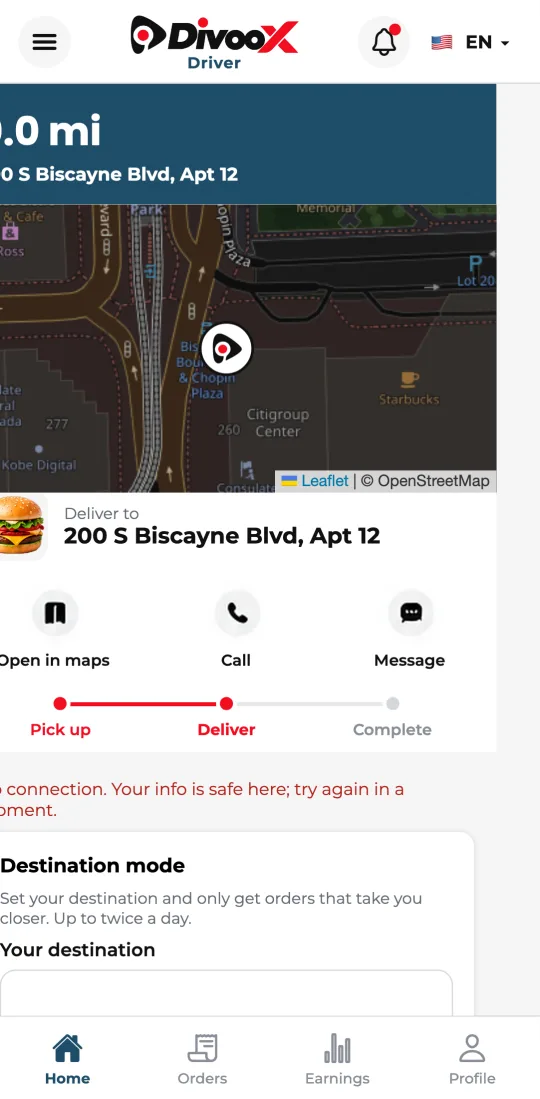
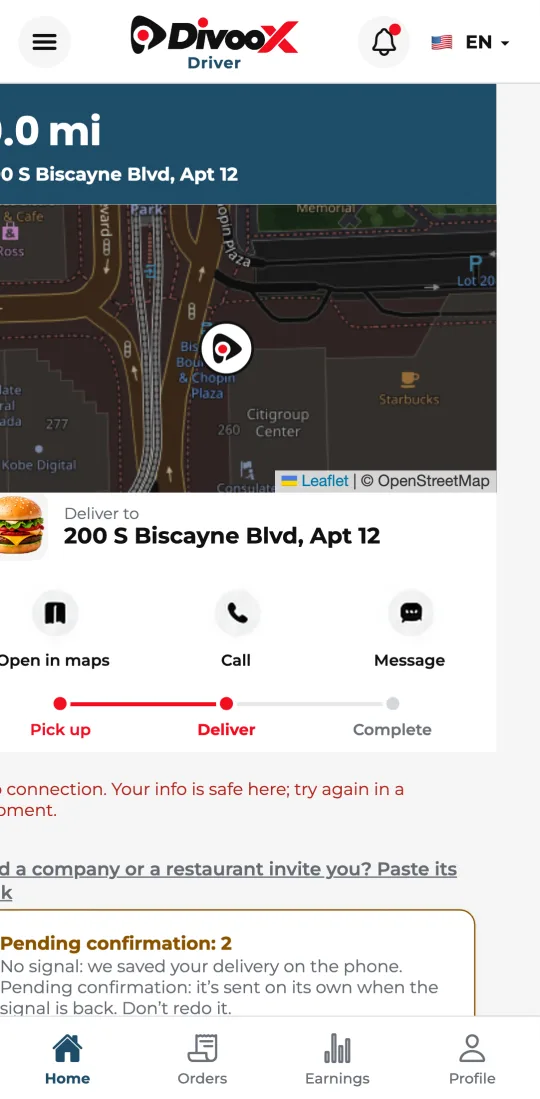
docs(entrega): guía «Completar la entrega: foto y deslizar» en español e inglés con capturas reales, candados, ficha REA y comparación; textos del deslizador que caben (C-DESLIZAR-ENTREGA) — todos los países

Changed region(s): [[0.0, 0.7734, 0.8593, 0.99], [0.8593, 0.8353, 0.8889, 0.99]]

diff --git a/apps/panel/src/sitio/docs/guias.ts b/apps/panel/src/sitio/docs/guias.ts
@@ -3015,6 +3015,50 @@ const es: SeccionDocs[] = [
         ],
       },
       {
+        id: 'complete-delivery',
+        titulo: 'Completar la entrega: foto y deslizar',
+        resumen:
+          'En la puerta del cliente tomas la foto de la entrega y deslizas «Desliza para completar». Así se cierra el pedido, como en las apps de reparto más grandes.',
+        explicacion: [
+          'Cuando llegas a la dirección y el GPS confirma que estás en la puerta, aparece «Tomar foto de la entrega».',
+          'Deja la comida y toma la foto de lado: que se vean la comida y la entrada de la casa, nunca la cara de nadie.',
+          'La foto se sube sola. Verás una miniatura con «Foto de la entrega lista». Si no te gustó, toca «Tomar otra foto» y reemplaza la anterior.',
+          'Con la foto lista, la barra de abajo se pone verde: desliza la bola de izquierda a derecha hasta el final. El pedido queda entregado y el cliente recibe la foto.',
+          'Deslizar, en vez de tocar, evita cerrar un pedido sin querer con el celular en el bolsillo. Si usas el lector de pantalla del celular, basta con activar la barra.',
+          'Si no tienes señal en la puerta, la foto y el cierre se guardan en tu celular y se mandan solos cuando vuelve la señal. Mientras tanto ves «Pendiente de confirmar».',
+          'Si el cliente pidió «en mano» y lo recibe, toca «Entregado en mano»: no hace falta foto. Con PIN o con productos para mayores de 21, siempre se entrega en mano.',
+          'Mientras tienes un pedido en curso no aparece «Modo destino»: lo eliges entre pedidos.',
+        ],
+        capturas: [
+          {
+            src: '/docs/recorrido-driver-entrega-foto-es.webp',
+            alt: 'App del repartidor en la puerta: botón verde «Tomar foto de la entrega» y debajo la barra gris «Primero toma la foto».',
+            pie: 'En la puerta: primero la foto. La barra espera en gris.',
+          },
+          {
+            src: '/docs/recorrido-driver-entrega-lista-es.webp',
+            alt: 'Miniatura de la foto con «Foto de la entrega lista», el enlace «Tomar otra foto» y la barra verde «Desliza para completar».',
+            pie: 'Con la foto lista, la barra se pone verde: desliza para completar.',
+          },
+          {
+            src: '/docs/recorrido-repartidor-sin-senal-es.webp',
+            alt: 'La tarjeta «Pendiente de confirmar: 2» con la foto y el cierre guardados en el celular, esperando señal.',
+            pie: 'Sin señal: la foto y el cierre se mandan solos cuando vuelve.',
+          },
+        ],
+        preguntas: [
+          '¿Cómo completo una entrega en la puerta?',
+          '¿Por qué tengo que deslizar en vez de tocar?',
+          '¿Puedo volver a tomar la foto de la entrega?',
+          '¿Qué pasa si no tengo señal al entregar?',
+        ],
+        pasos: [
+          'En la puerta, toca «Tomar foto de la entrega» y toma la foto de lado, sin caras.',
+          'Revisa la miniatura. Si no sirve, toca «Tomar otra foto».',
+          'Desliza la barra verde «Desliza para completar» hasta el final.',
+        ],
+      },
+      {
         id: 'cant-continue',
         titulo: 'Si no puedes seguir con un pedido o el cliente no aparece',
         resumen:
@@ -3830,7 +3874,7 @@ const es: SeccionDocs[] = [
           'Así nadie se lleva una bolsa sin dejar rastro y nadie marca «entregado» desde otro lugar.',
           'En el restaurante, el repartidor toma la foto de la bolsa cerrada, con el sello o el ticket a la vista. La app solo la acepta si está en el restaurante.',
           'El repartidor también escanea el código QR de la pantalla del restaurante, que confirma que es el pedido correcto; con el código y la foto, el pedido sale solo. Si no escaneó, el restaurante ve la foto en su pantalla, revisa que sea su pedido y toca «Confirmar: se lo entregué al repartidor». Recién ahí el pedido sale en camino: ya se sabe quién lo tiene, el repartidor ve la ruta y el cliente ve la foto de su pedido cerrado con la hora estimada.',
-          'En camino, el botón verde «Cómo llegar» lo guía. Al llegar a la puerta (a unos 80 metros de la dirección, confirmado por el GPS con dos lecturas precisas), ese botón se quita y aparece «Tomar foto de la entrega». Desde lejos no se puede entregar. Si pediste «en mano», el repartidor toca «Entregado en mano» y no hace falta foto.',
+          'En camino, el botón verde «Cómo llegar» lo guía. Al llegar a la puerta (a unos 80 metros de la dirección, confirmado por el GPS con dos lecturas precisas), ese botón se quita y aparece «Tomar foto de la entrega». Con la foto lista, el repartidor desliza «Desliza para completar». Desde lejos no se puede entregar. Si pediste «en mano», el repartidor toca «Entregado en mano» y no hace falta foto.',
           'La foto de la entrega no muestra caras: la comida se deja en la puerta o en las manos del cliente, y la foto se toma de lado, con las manos, la comida y la entrada de la casa.',
           'Las fotos solo las ven el cliente, el restaurante y el repartidor de ese pedido, y nuestro equipo de soporte si hay un reclamo.',
           'Al entregar, al cliente también le llega un correo con la foto de la entrega y el enlace para calificar. Ese enlace de la foto es solo de su pedido y deja de funcionar a los 7 días.',
@@ -3869,6 +3913,7 @@ const es: SeccionDocs[] = [
           'Restaurante: mira la foto en tu pantalla y toca «Confirmar: se lo entregué al repartidor».',
           'Repartidor: sigue «Cómo llegar» hasta la puerta del cliente.',
           'Repartidor: en la puerta, toca «Tomar foto de la entrega». Sin caras: de lado, con las manos, la comida y la entrada.',
+          'Repartidor: desliza «Desliza para completar» hasta el final.',
           'Cliente: ve la foto de su pedido cerrado al salir y la de la entrega al llegar.',
         ],
       },
@@ -7985,6 +8030,50 @@ const en: SeccionDocs[] = [
         ],
       },
       {
+        id: 'complete-delivery',
+        titulo: 'Complete the delivery: photo and slide',
+        resumen:
+          'At the customer’s door, take the delivery photo and slide “Slide to complete delivery.” That closes the order, just like the biggest delivery apps.',
+        explicacion: [
+          'When you reach the address and GPS confirms you’re at the door, “Take the delivery photo” appears.',
+          'Leave the food and take the photo from the side: show the food and the entrance, never anyone’s face.',
+          'The photo uploads on its own. You’ll see a thumbnail with “Delivery photo ready.” If you don’t like it, tap “Retake photo” to replace it.',
+          'With the photo ready, the bar below turns green: slide the ball all the way from left to right. The order is delivered and the customer gets the photo.',
+          'Sliding instead of tapping keeps you from closing an order by accident with the phone in your pocket. If you use your phone’s screen reader, just activate the bar.',
+          'If you have no signal at the door, the photo and the completion are saved on your phone and sent on their own when the signal comes back. Meanwhile you see “Pending confirmation.”',
+          'If the customer chose “hand it to me” and takes it, tap “Handed to the customer”: no photo needed. Orders with a PIN or with 21+ items are always handed over in person.',
+          'While you have an order in progress, “Destination mode” is hidden: you set it between orders.',
+        ],
+        capturas: [
+          {
+            src: '/docs/recorrido-driver-entrega-foto-en.webp',
+            alt: 'Driver app at the door: green “Take the delivery photo” button and, below it, the gray bar “Take the photo first.”',
+            pie: 'At the door: photo first. The bar waits in gray.',
+          },
+          {
+            src: '/docs/recorrido-driver-entrega-lista-en.webp',
+            alt: 'Photo thumbnail with “Delivery photo ready,” the “Retake photo” link and the green bar “Slide to complete delivery.”',
+            pie: 'With the photo ready, the bar turns green: slide to complete.',
+          },
+          {
+            src: '/docs/recorrido-repartidor-sin-senal-en.webp',
+            alt: 'The “Pending confirmation: 2” card with the photo and the completion saved on the phone, waiting for signal.',
+            pie: 'No signal: the photo and the completion go out on their own when it returns.',
+          },
+        ],
+        preguntas: [
+          'How do I complete a delivery at the door?',
+          'Why do I have to slide instead of tap?',
+          'Can I retake the delivery photo?',
+          'What if I have no signal when I deliver?',
+        ],
+        pasos: [
+          'At the door, tap “Take the delivery photo” and shoot from the side, no faces.',
+          'Check the thumbnail. If it’s not good, tap “Retake photo.”',
+          'Slide the green “Slide to complete delivery” bar all the way.',
+        ],
+      },
+      {
         id: 'cant-continue',
         titulo: 'If you can’t continue with an order or the customer isn’t there',
         resumen:
@@ -8803,7 +8892,7 @@ const en: SeccionDocs[] = [
           'That way no one walks off with a bag without a trace, and no one marks an order “delivered” from somewhere else.',
           'At the restaurant, the driver takes a photo of the closed bag with the seal or receipt showing. The app only accepts it at the restaurant.',
           'The driver also scans the QR code on the restaurant’s screen, which confirms it’s the right order; with the code and the photo, the order goes out on its own. If they didn’t scan, the restaurant sees the photo on its screen, checks that it’s their order, and taps “Confirm: I handed it to the driver.” Only then does the order go out: everyone knows who has it, the driver sees the route, and the customer sees the photo of their closed order with the estimated time.',
-          'On the way, the green “Directions” button guides the driver. At the door (about 80 meters from the address, confirmed by GPS with two precise readings), that button goes away and “Take the delivery photo” appears. It can’t be delivered from far away. If you chose “hand it to me,” the driver taps “Handed to the customer” and no photo is needed.',
+          'On the way, the green “Directions” button guides the driver. At the door (about 80 meters from the address, confirmed by GPS with two precise readings), that button goes away and “Take the delivery photo” appears. With the photo ready, the driver slides “Slide to complete delivery.” It can’t be delivered from far away. If you chose “hand it to me,” the driver taps “Handed to the customer” and no photo is needed.',
           'The delivery photo shows no faces: the food is left at the door or in the customer’s hands, and the photo is taken from the side, showing the hands, the food, and the home’s entrance.',
           'Only the customer, the restaurant, and the driver of that order can see the photos, plus our support team if there’s a claim.',
           'When the order is delivered, the customer also gets an email with the delivery photo and a link to rate it. That photo link belongs to their order only and stops working after 7 days.',
@@ -8842,6 +8931,7 @@ const en: SeccionDocs[] = [
           'Restaurant: look at the photo on your screen and tap “Confirm: I handed it to the driver.”',
           'Driver: follow “Directions” to the customer’s door.',
           'Driver: at the door, tap “Take the delivery photo.” No faces: from the side, with the hands, the food, and the entrance.',
+          'Driver: slide “Slide to complete delivery” all the way.',
           'Customer: sees the photo of the closed order when it leaves and the delivery photo when it arrives.',
         ],
       },

diff --git a/e2e/recorrido/recorrido.spec.ts b/e2e/recorrido/recorrido.spec.ts
@@ -88,6 +88,7 @@ const PARA_TIENDA = new Map<string, [string, string]>([
   ],
   ['repartidor-en-camino', ['Divoox Driver (repartidor)', '04-en-camino-como-llegar']],
   ['repartidor-llegada', ['Divoox Driver (repartidor)', '05-en-la-puerta-foto-de-la-entrega']],
+  ['driver-entrega-lista', ['Divoox Driver (repartidor)', '05b-foto-lista-desliza-para-completar']],
   ['repartidor-billetera', ['Divoox Driver (repartidor)', '06-billetera']],
   ['repartidor-retiro', ['Divoox Driver (repartidor)', '07-retiro-al-banco']],
   ['restapp-nuevo', ['Divoox Restaurants (restaurante)', '01-pedido-nuevo-y-tiempo-para-aceptar']],
@@ -1080,23 +1081,27 @@ for (const idioma of ['en', 'es'] as const) {
     // 11. Sin señal al entregar: la foto se guarda en el celular, «pendiente de confirmar», y se
     // manda sola cuando vuelve la señal. El pedido NO queda entregado hasta entonces.
     // C-DESLIZAR-ENTREGA (como DoorDash y Uber): la foto no cierra el pedido; se cierra al
-    // deslizar «Desliza para completar la entrega». Sin señal, los dos quedan en la cola, en orden.
+    // deslizar «Desliza para completar». Sin señal, los dos quedan en la cola, en orden.
     const deslizador = rep.getByTestId('deslizar-completar').filter({ visible: true });
     await expect(deslizador).toBeVisible({ timeout: 20_000 });
-    await expect(deslizador).toHaveAttribute('aria-disabled', 'true');
+    await expect(deslizador).toHaveAttribute('aria-label', L.primeroFoto);
+    await deslizador.scrollIntoViewIfNeeded();
+    await foto(rep, 'driver-entrega-foto');
     await repCtx.setOffline(true);
     await tomarFoto(L.fotoEntrega, FOTO_ENTREGA);
     await expect(rep.getByText(`${L.pendientes}: 1`)).toBeVisible({ timeout: 20_000 });
     await expect(rep.getByText(L.fotoLista).filter({ visible: true })).toBeVisible({
       timeout: 20_000,
     });
-    await expect(deslizador).not.toHaveAttribute('aria-disabled', 'true');
+    await expect(deslizador).toHaveAttribute('aria-label', L.deslizar);
     expect(sql(`SELECT estado FROM pedidos WHERE id = '${cobro.pedidoId}'`)[0]?.estado).toBe(
       'en_camino',
     );
     await deslizador.scrollIntoViewIfNeeded();
-    await foto(rep, 'repartidor-foto-lista');
-    // Deslizar la bola de punta a punta, como con el dedo.
+    await foto(rep, 'driver-entrega-lista');
+    // Deslizar la bola de punta a punta, como con el dedo (la captura mueve la página: se vuelve
+    // a enfocar la barra antes de medirla).
+    await deslizador.scrollIntoViewIfNeeded();
     const caja = (await deslizador.boundingBox())!;
     const y = caja.y + caja.height / 2;
     await rep.mouse.move(caja.x + 30, y);

diff --git a/e2e/recorrido/textos.ts b/e2e/recorrido/textos.ts
@@ -79,6 +79,8 @@ export const TEXTOS = {
     comoLlegar: 'Directions',
     fotoEntrega: 'Take the delivery photo',
     fotoLista: 'Delivery photo ready',
+    primeroFoto: 'Take the photo first',
+    deslizar: 'Slide to complete delivery',
     sinGpsAyuda:
       'Tell us what’s going on (tall building, garage, no signal). Support reviews it and authorizes the delivery.',
     pedirExcepcion: 'I can’t confirm my location',
@@ -215,6 +217,8 @@ export const TEXTOS = {
     comoLlegar: 'Cómo llegar',
     fotoEntrega: 'Tomar foto de la entrega',
     fotoLista: 'Foto de la entrega lista',
+    primeroFoto: 'Primero toma la foto',
+    deslizar: 'Desliza para completar',
     sinGpsAyuda:
       'Cuéntanos qué pasa (edificio, garaje, celular sin señal). Soporte lo revisa y te autoriza entregar.',
     pedirExcepcion: 'No puedo confirmar mi ubicación',

diff --git a/apps/repartidor/src/piezas/DeslizarParaCompletar.tsx b/apps/repartidor/src/piezas/DeslizarParaCompletar.tsx
@@ -13,14 +13,14 @@ import { C, Text } from '@tumbite/movil';
  */
 const T = {
   es: {
-    deslizar: 'Desliza para completar la entrega',
-    primeroFoto: 'Toma la foto para poder completar',
-    completando: 'Completando la entrega…',
+    deslizar: 'Desliza para completar',
+    primeroFoto: 'Primero toma la foto',
+    completando: 'Completando…',
   },
   en: {
     deslizar: 'Slide to complete delivery',
-    primeroFoto: 'Take the photo to complete',
-    completando: 'Completing delivery…',
+    primeroFoto: 'Take the photo first',
+    completando: 'Completing…',
   },
 };
 

diff --git a/apps/servidor/src/fotoEntregaDeslizar.test.ts b/apps/servidor/src/fotoEntregaDeslizar.test.ts
@@ -216,7 +216,7 @@ describe('las apps: subir fotos sin falsos errores y el deslizador (fuente)', ()
   });
 
   it('el deslizador está en español e inglés y se puede usar con lector de pantalla', () => {
-    expect(deslizar()).toContain('Desliza para completar la entrega');
+    expect(deslizar()).toContain('Desliza para completar');
     expect(deslizar()).toContain('Slide to complete delivery');
     expect(deslizar()).toContain("accessibilityActions={[{ name: 'activate'");
   });

diff --git a/docs/investigaciones-rea/2026-11-15-cerrar-entrega-deslizar.md b/docs/investigaciones-rea/2026-11-15-cerrar-entrega-deslizar.md
@@ -1,0 +1,57 @@
+# Cerrar la entrega en la puerta: foto y deslizar (15 nov 2026) — todos los países
+
+Candados: C-FOTO-ENTREGA-IPHONE y C-DESLIZAR-ENTREGA (ver `CANDADOS.md`).
+
+## Por qué
+
+Primera prueba real de Richard en Novi, Michigan (Divoox Driver PRUEBAS versión 17, iPhone). En la
+casa del cliente tomó la foto y el pedido no se cerró: «No pudimos leer los datos enviados.» y, en
+el chat, «No se pudo subir la foto.». Pidió además un cierre claro: con la foto tomada y el GPS en
+el lugar, un botón deslizante que cierre la operación, como Uber y DoorDash.
+
+## Referencias y evidencia
+
+| Referencia                                                         | Qué hace                                                                                                                                                                                                                                                                                                 | Etiqueta                                                                                                                                                                                                                   |
+| ------------------------------------------------------------------ | -------------------------------------------------------------------------------------------------------------------------------------------------------------------------------------------------------------------------------------------------------------------------------------------------------- | -------------------------------------------------------------------------------------------------------------------------------------------------------------------------------------------------------------------------- |
[1 lines of base64/hex data omitted]
+| Uber Eats (guía para repartidores)                                 | La entrega se termina deslizando «delivered» en la app del conductor; si se deja en la puerta, la foto se toma en la app para poder completar.                                                                                                                                                           | [DOC] guía pública de Uber para repartidores (Australia)                                                                                                                                                                   |
+| Shipt (prueba de entrega)                                          | Después de la foto, «Swipe to finish» confirma y completa la entrega.                                                                                                                                                                                                                                    | [DOC] ayuda pública de Shipt para conductores                                                                                                                                                                              |
+| Amazon Flex (nuestra pieza «Deslizar» de Mi ruta, C-FLEX-DESLIZAR) | «Deslice para finalizar».                                                                                                                                                                                                                                                                                | [OBS] capturas de Richard, 30 oct 2026                                                                                                                                                                                     |
+| Nuestra app (Driver v17)                                           | La foto de la puerta cerraba el pedido de una vez; en iPhone fallaba por el tipo vacío.                                                                                                                                                                                                                  | [OBS] video de Richard + prueba en rojo                                                                                                                                                                                    |
+
+Lo que no se puede verificar desde afuera: si Uber exige un radio exacto de GPS para habilitar el
+deslizador [NV]. Nosotros mantenemos nuestra regla (llegada confirmada con dos lecturas precisas y
+unos 80 metros), que el servidor revisa al deslizar.
+
+## Flujo
+
+```
+En camino → llega a la puerta (GPS confirma) → «Tomar foto de la entrega»
+   → foto sube sola (evidencia, sin cerrar) → miniatura + «Tomar otra foto»
+   → «Desliza para completar» (verde) → servidor revisa foto + GPS → entregado
+```
+
+Sin señal: la foto y el cierre quedan en la cola del celular, en orden, y se mandan solos.
+
+## Comparación con Divoox y decisión
+
+- Antes: un toque en «Tomar foto de la entrega» subía la foto y cerraba en el mismo paso; sin
+  confirmación visible y con el fallo del iPhone.
+- Ahora: foto por su propio camino (`/foto-entrega`) y cierre con deslizador (`/entregado` con modo
+  «puerta»), igual que DoorDash (foto, luego completar) y Uber (deslizar). El deslizador evita
+  cierres por un toque accidental.
+- Se reutiliza: la regla de llegada por GPS, la cola sin señal, la evidencia y el correo con la
+  foto al cliente. La app vieja (versión 17) sigue funcionando con el camino de antes.
+- Con PIN o con productos para mayores de 21 no hay foto: se entrega en mano, como hasta hoy.
+
+## Pruebas de aceptación
+
+- Foto sin tipo (como el iPhone) a `/entregado` → entrega (antes 400).
+- Foto del chat → responde con su dirección.
+- Foto aparte → el pedido sigue en camino; el repartidor ve «foto lista»; el cliente no la ve aún.
+- Deslizar con foto en la puerta → entregado y evidencia confirmada.
+- Deslizar sin foto → 409 «Primero toma la foto…». Deslizar lejos → 409.
+- Recorrido del navegador: foto y deslizador sin señal, se manda solo al volver la señal.
+
+Fuentes: ayuda de DoorDash Dasher («No-Contact Delivery Requests»), guía de Uber para repartidores
+(«Delivering using the Uber Eats app»), ayuda de Shipt («Proof of delivery»).

diff --git a/CANDADOS.md b/CANDADOS.md
@@ -4543,3 +4543,19 @@ Orden directa de Richard del 14 nov («paradas múltiples, categorías y tarifa 
 
 - **Al cambiar la dirección de un pedido, el repartidor seguía viendo las fotos de la puerta anterior.** `PATCH /datos/pedidos/:id/direccion` no tocaba `direccion_id` (solo se fijaba al crear el pedido). Ahora, en la misma sentencia que cambia la dirección, el pedido queda enlazado con la dirección guardada que coincide con el destino nuevo, o con ninguna; un regalo nunca se enlaza. Sin lecturas ni escrituras de más. Prueba: «al cambiar la dirección del pedido, el repartidor deja de ver la puerta anterior» en `apps/servidor/src/rutas/fotoPuerta.test.ts`, comprobada en rojo.
 - **Punto abierto solo del sitio de pruebas:** su tabla `direcciones_fotos` nació con la forma anterior (tres filas escritas por foto en vez de una). El servidor funciona igual con las dos formas. Producción nace con la forma nueva.
+
+## C-FOTO-ENTREGA-IPHONE y C-DESLIZAR-ENTREGA · La foto de la puerta y el cierre con deslizador (15 nov 2026) — todos los países
+
+- **Qué se rompió y cómo se veía:** primera prueba real de Richard en Novi, Michigan, con Divoox Driver PRUEBAS versión 17 en un iPhone (pedido de pizza en el sitio de pruebas). Recoger, foto en el restaurante y código QR funcionaron. En la casa del cliente tomó la foto y el pedido no se cerró: arriba «No pudimos leer los datos enviados.» y en el chat la foto aparecía con «No se pudo subir la foto.» debajo. Encima, en plena entrega se veía la tarjeta «Modo destino».
+- **Causa real (dos fallos):**
+  1. En el iPhone, `fetch(uri).blob()` de la foto de la cámara sale sin tipo (`Blob.type` vacío) y `api.subirFoto` la mandaba como `application/octet-stream`. `/repartidor/pedidos/:id/entregado` decidía «es foto» solo con `content-type` empezando por `image/`; si no, la leía como JSON y respondía 400 «No pudimos leer los datos enviados.». La foto de la recogida sí pasaba porque esa ruta revisa los bytes (`leerFoto` → `tipoReal`).
+  2. `api.subirFoto` exigía que la respuesta trajera `url`; el chat (`/pedidos/:id/mensajes/foto`), la identidad (`/kyc/foto/:pieza`, `/admin/kyc/:id/miniatura`), las quejas (`/quejas/:id/foto`) y los paquetes (`/conductor/operaciones/:id/foto-paquete`) respondían solo `{ ok: true }`. La foto se guardaba y la app decía «No se pudo subir la foto.». Fallaba así desde el 11 oct 2026 en todas las apps.
+- **Qué se hizo:**
+  - Servidor: en `/entregado`, todo lo que no es JSON es la foto (`esFoto = !content-type.includes('json')`) y `leerFoto` revisa los bytes. Las cinco rutas de fotos devuelven `url`. Así la versión 17 ya instalada funciona sin recompilar.
+  - App (`packages/compartido/src/api.ts`): una foto sin tipo viaja como `image/jpeg`; un «sí» del servidor sin `url` ya no es error.
+  - **Cierre como DoorDash Dasher y Uber Driver** (ficha `docs/investigaciones-rea/2026-11-15-cerrar-entrega-deslizar.md`): la foto de la puerta va por su propio camino, `POST /repartidor/pedidos/:id/foto-entrega` (con `?lat&lng`), y queda en `evidencias` (tipo `entrega`, modo `puerta`) SIN confirmar y sin cerrar el pedido. Si la vuelve a tomar, reemplaza la anterior y borra la vieja del almacén. El cliente no la ve hasta el cierre (`CON_EVIDENCIAS.ev_entrega` solo cuenta las confirmadas; `ev_entrega_foto` le dice al repartidor `fotoEntregaLista`). El cierre es `POST …/entregado` con JSON `{ lat, lng, modo: 'puerta' }`: exige la foto (409 «Primero toma la foto de la entrega en la puerta.»), la distancia y la llegada confirmada por el GPS como siempre, y marca la evidencia como confirmada. Con PIN o con productos para mayores de 21 no hay foto ni deslizador (se entrega en mano).
+  - App del repartidor: pieza `apps/repartidor/src/piezas/DeslizarParaCompletar.tsx` («Desliza para completar» / «Slide to complete delivery»), gris y quieto hasta tener la foto, verde cuando se puede, con acción «activar» para el lector de pantalla. En `Inicio.tsx`, `cierrePuerta()` arma la foto, la miniatura con «Tomar otra foto» y el deslizador, para el pedido principal y los agrupados. Sin señal, la foto y el cierre quedan en la cola en orden y se mandan solos.
+  - «Modo destino» no se muestra mientras hay un pedido en curso.
+- **Commits:** `02212434a` (arreglo y deslizador) y `d1b3b5126` (recorrido).
+- **Cómo se comprueba:** `apps/servidor/src/fotoEntregaDeslizar.test.ts` (foto sin tipo como el iPhone a `/entregado` y al chat; foto aparte sin cerrar; el cliente no la ve antes; deslizar cierra; sin foto o lejos no cierra), comprobada en rojo antes del arreglo (400 en vez de 200). El recorrido del navegador entrega con foto y deslizador, también sin señal (`e2e/recorrido/recorrido.spec.ts`, paso 11).
+- **No tocar:** no volver a decidir «es foto» por el `content-type`; no volver a exigir `url` en `subirFoto`; no hacer que la foto de la puerta cierre el pedido por sí sola (la app vieja sigue usando ese camino y se mantiene, pero la nueva cierra con el deslizador); no mostrar la foto al cliente antes de confirmada.

diff --git a/docs/COMPARACION-CICLO-PEDIDO.md b/docs/COMPARACION-CICLO-PEDIDO.md
@@ -175,3 +175,10 @@ Uber Eats / Uber Direct
 - Preguntas de entrega para repartidores (dejar en la puerta, saltar foto, lugar seguro): https://help.uber.com/en/driving-and-delivering/article/delivery-faq?nodeId=ede068b9-9ed7-4b60-92b1-6e5211c6d83f
 - Estado del pedido para el cliente («Heading to store», «Almost here», mapa): https://help.uber.com/en/ubereats/stores/article/check-the-status-of-my-order-?nodeId=14ad371a-cc67-408c-8d62-34bf738dc8c6
 - Seguimiento en vivo para comercios con entrega propia (100 m): https://help.uber.com/en/merchants-and-restaurants/article/live-order-tracking---faq?nodeId=d006582e-113f-4423-9d33-e938de34b3a2
+
+## Cierre en la puerta: foto y deslizar (15 nov 2026)
+
+- DoorDash: foto en la puerta y después «complete delivery» [REA]. Uber: se desliza «delivered» [DOC].
+- Divoox desde el 15 nov: «Tomar foto de la entrega» sube la foto como evidencia sin cerrar; después
+  «Desliza para completar», que el servidor acepta solo con la foto y el GPS en la puerta.
+  Ficha: `docs/investigaciones-rea/2026-11-15-cerrar-entrega-deslizar.md`. Sin brecha pendiente.
